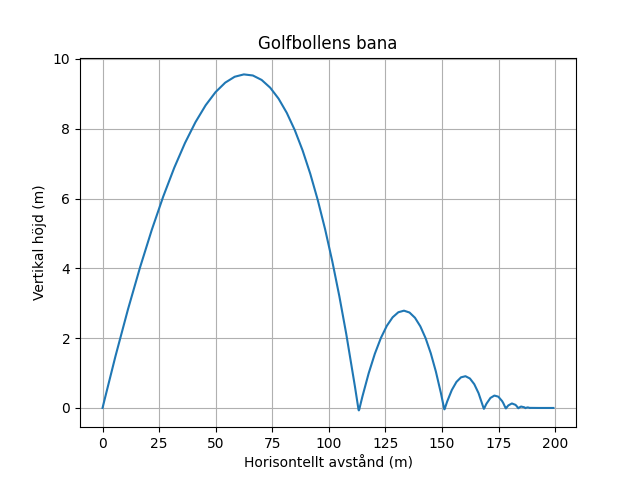
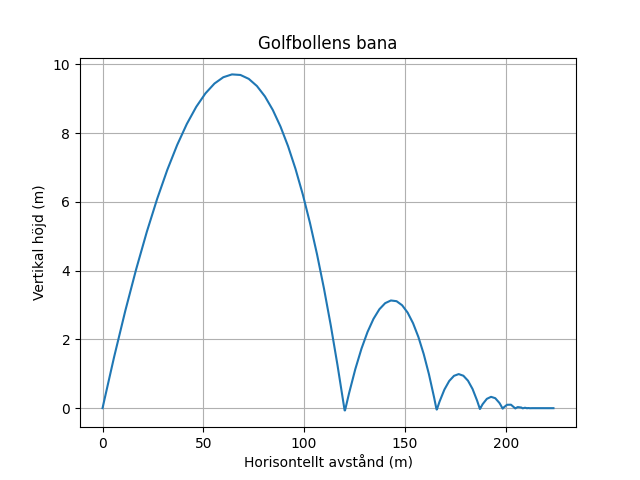
Längsta slag: 283.33 m vid 35 grader

diff --git a/steg3.py b/steg3.py
@@ -18,7 +18,7 @@ g = -9.81
 timeinair = 0
 ballmass = 46e-3
 gforce = ballmass*g
-windspeed = -5
+windspeed = 0
 airdensity = 1.225
 dragkoefficient = 0.25
 area = 1430e-6
@@ -80,9 +80,6 @@ solution = i.solve_ivp(
 x_positions = solution.y[0]
 y_positions = solution.y[1]
 
-# test för del 1 i steg 2
-# print(f"x-positions = {x_positions} \n y-positions = {y_positions}")
-
 def ballstop(t, u):
     xpos, ypos, xspeed, yspeed = u
     # Returnerar 0 när xspeed är 0.01. Då triggas eventet.
@@ -95,13 +92,12 @@ anglelist = []
 
 def optimalangle():
     for n in range(0,180):
-        angle = n / 2 # Ger 0.0, 0.5, 1.0 ... upp till 89.5 grader
+        angle = n / 2 
         
-        # 1. Räkna ut nya starthastigheter för just denna vinkel!
         anglerad = math.radians(angle)
         start_xspeed = math.cos(anglerad) * initialvelocity
         start_yspeed = math.sin(anglerad) * initialvelocity
-        
+
         current_u0 = [0, 0, start_xspeed, start_yspeed]
 
         solution = i.solve_ivp(
@@ -121,7 +117,6 @@ def optimalangle():
     
     print(f"Längsta slaget: {best_result[0]:.2f} m vid vinkeln {best_result[1]} grader")
 
-# Kör funktionen
 optimalangle()
 
 plt.figure()
